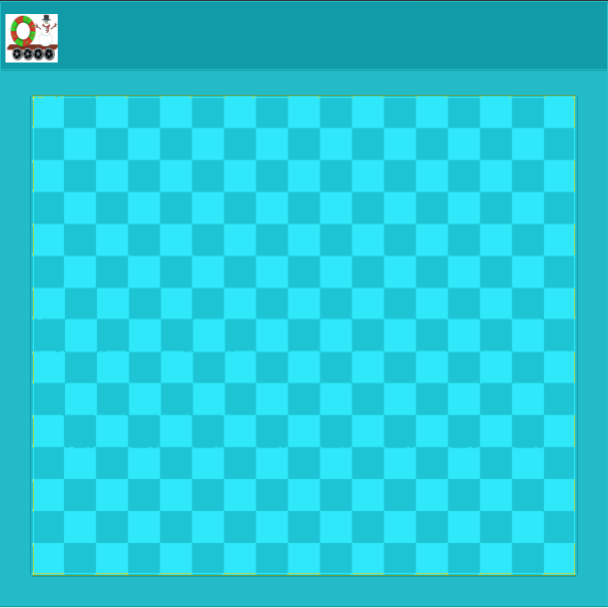
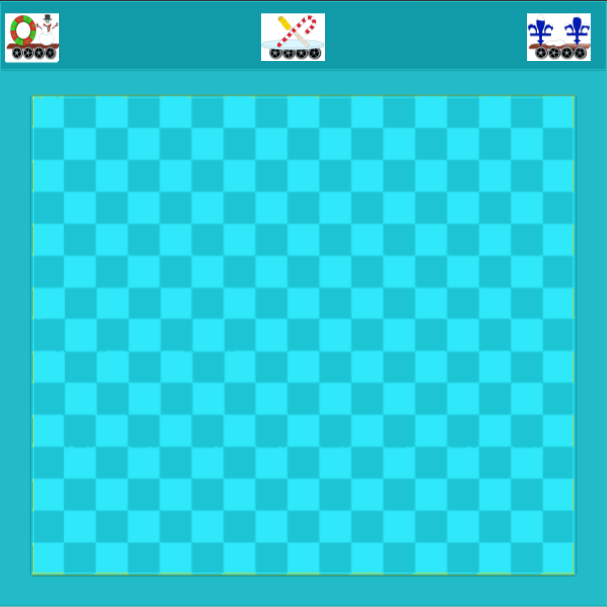
final almost

diff --git a/questions.js b/questions.js
@@ -113,7 +113,6 @@
             },
             correctAnswer: 'a',
         },
-
         {
             question: 'Quelle couleur est le motif de la chaussette?',
             answers: {
@@ -123,7 +122,6 @@
             },
             correctAnswer: 'c',
         },
-
         {
             question: 'Quel biscuit dans le beignet?',
             answers: {
@@ -133,7 +131,6 @@
             },
             correctAnswer: 'b',
         },
-
         {
             question: 'Qui est Bonhomme?',
             answers: {
@@ -143,7 +140,6 @@
             },
             correctAnswer: 'c',
         },
-
         {
             question: 'Quel est le Carnaval traditions?',
             answers: {
@@ -154,7 +150,6 @@
             },
             correctAnswer: 'd',
         },
-
         {
             question: 'Combien est lourd Bonhomme?',
             answers: {
@@ -164,7 +159,6 @@
             },
             correctAnswer: 'a',
         },
-
         {
             question: 'Que fait le bonhomme representer?',
             answers: {

diff --git a/index.html b/index.html
@@ -29,5 +29,22 @@
         <script src="bonhomme.js"></script>
         <link rel="stylesheet" href="styles.css"></link>
     </div>
+    <!-- <div>
+        <img src="./img/floatone.png"alt="float" width="460" height="345"></img>
+    </div> -->
 
+    <!-- <div>
+        <style>
+                relative {
+                position: relative;
+                left: 30px;
+                right: 900px;
+                }
+        </style>
+            <img src="./img/floatone.png" style = "width:532;height:400;" width = 532 height = 400></img>
+        </div>
+    </div>
+
+    <img src="./img/floattwo.png"></img>
+    <img src="./img/floattree.png"></img> -->
 </html>

diff --git a/bonhomme.js b/bonhomme.js
@@ -12,6 +12,12 @@ ground.src = 'img/ground.png';
 const foodImg = new Image();
 foodImg.src = 'img/food.png';
 
+// let foodImg = [];
+// for (var i = 0; i < 3; i++) {
+//     foodImg[i] = new Image();
+//     foodImg[i].src = `https://cutt.ly/bonhommeimg${i}`;
+// }
+
 // load audio files
 
 let dead = new Audio();

diff --git a/styles.css b/styles.css
@@ -73,3 +73,8 @@ button:hover {
     top: 0;
     left: 0;
 }
+.relative {
+    position: relative;
+    left: 30px;
+    right: 900px;
+}
